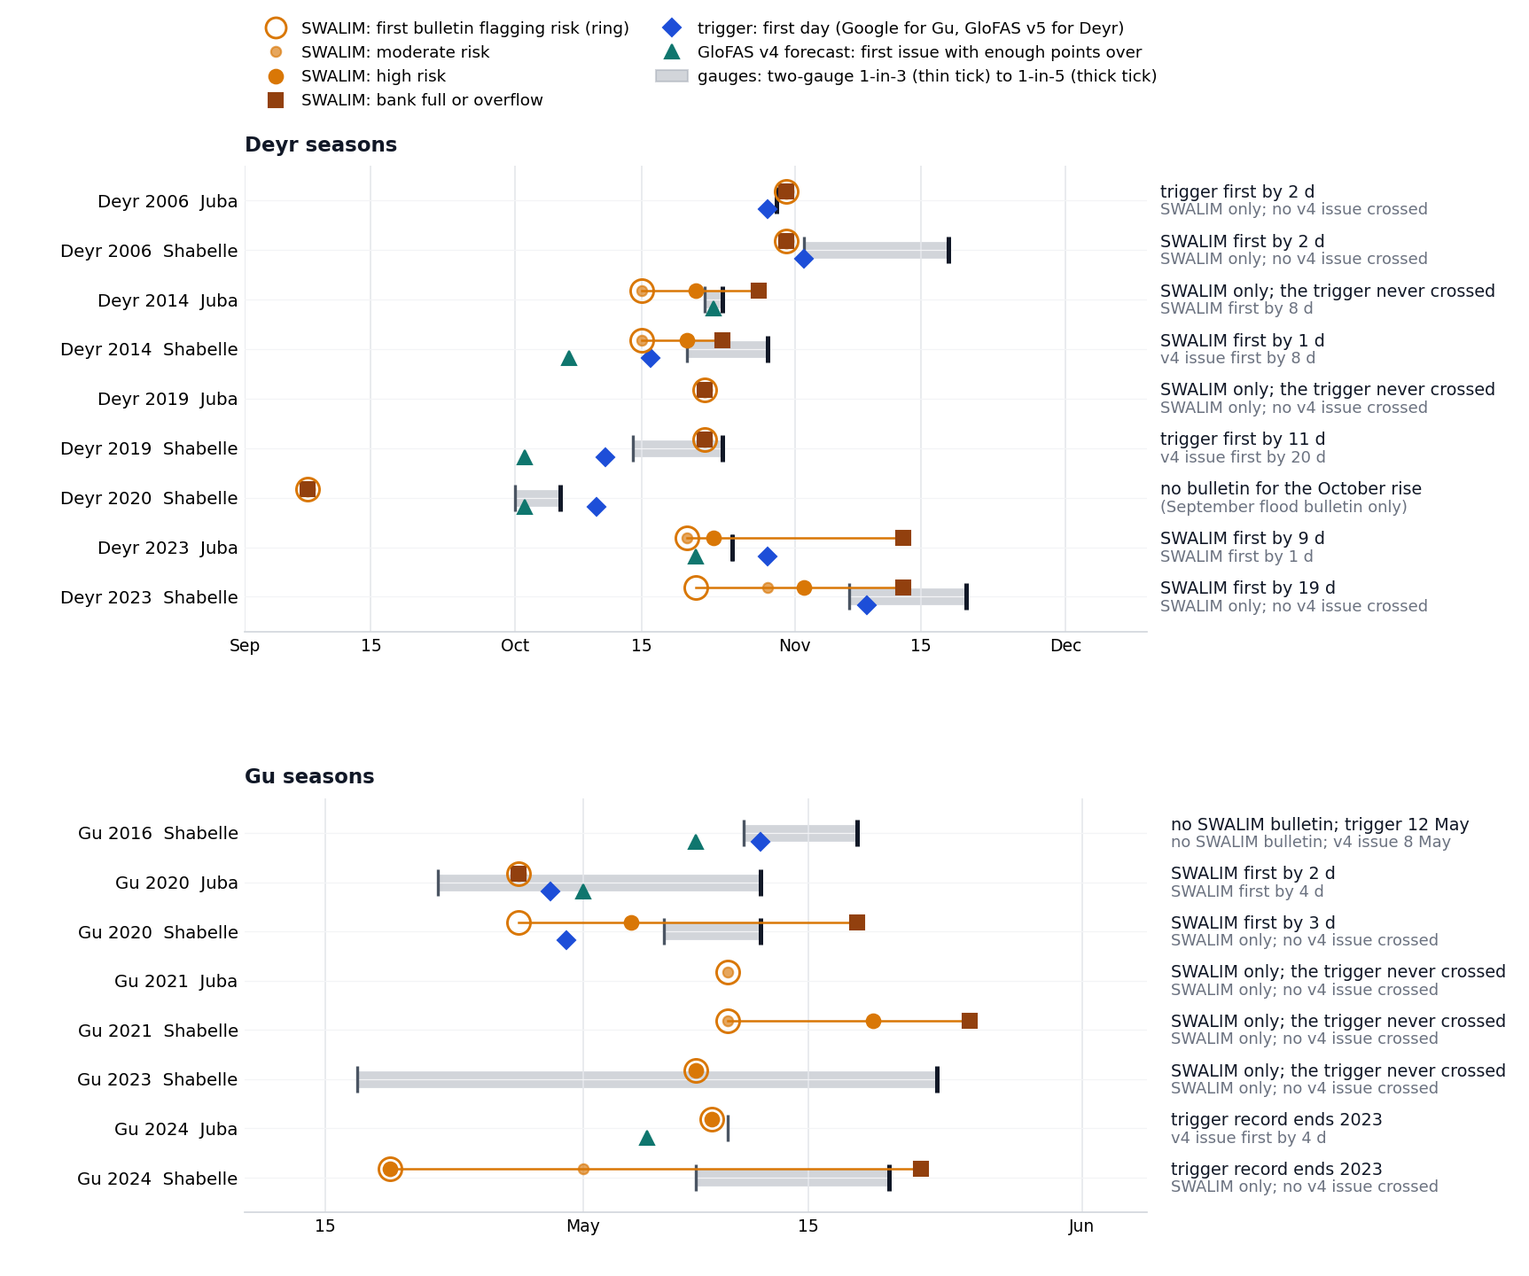
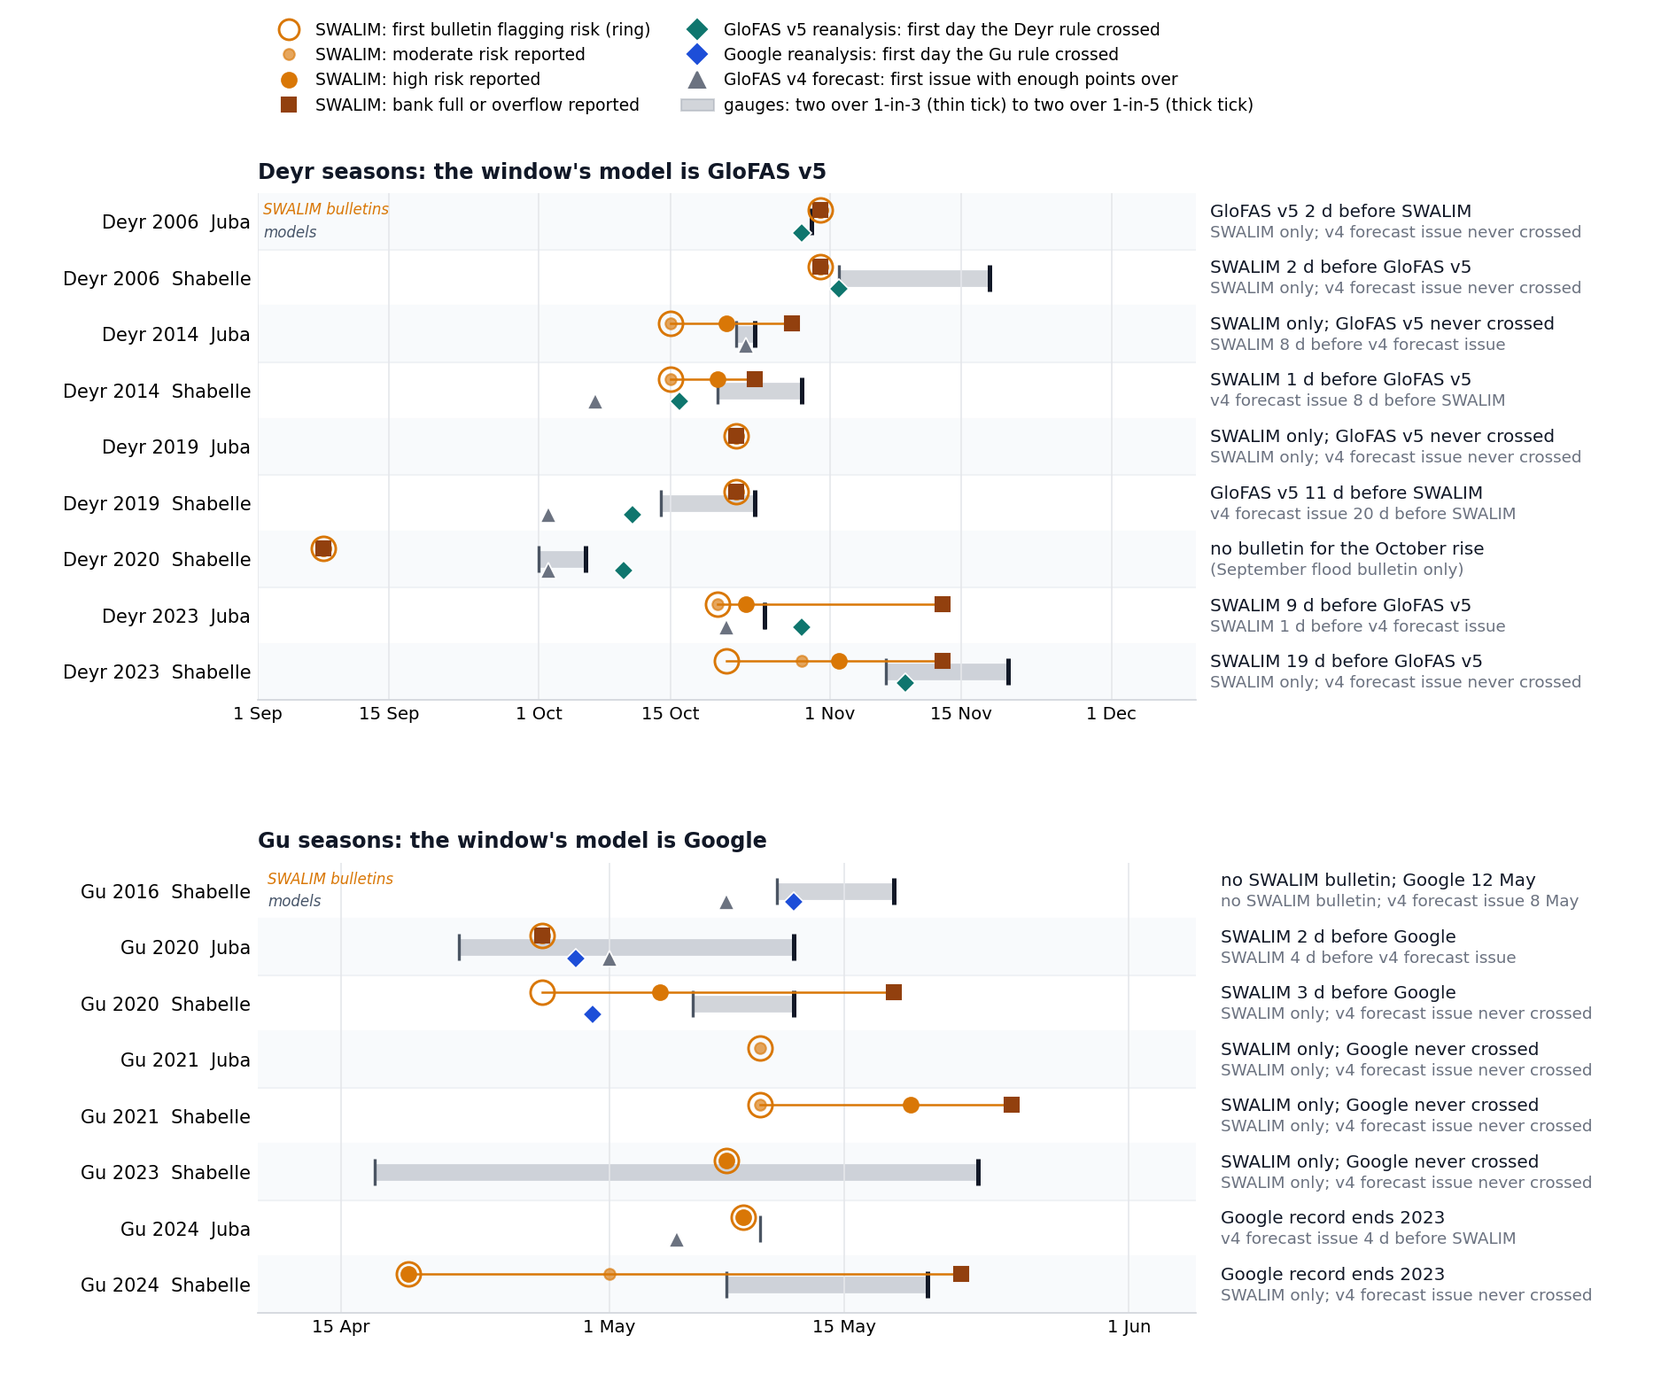
SWALIM timeline: name the model, clearer rows, no summary table
The diamond is now labelled by the window's model (GloFAS v5 in Deyr, Google in
Gu) in the legend, the panel titles and the verdict text, in the lead-time chart
too. Rows are separated and alternately shaded, the tracks are labelled, tick
labels carry the month, and the verdicts read as days between SWALIM and the
model. The who-was-first table under the chart is dropped.

diff --git a/pages/trigger-single-model/index.html b/pages/trigger-single-model/index.html
@@ -980,19 +980,14 @@ body.variant .carrynote { display:none; }
     <figure><img src="figs/k_swalim_timeline.png?v=202609071" alt="Timeline of SWALIM bulletins, trigger and GloFAS v4 forecast per flood season">
       <figcaption>Each row is one river-season. Upper track: SWALIM's first bulletin flagging
         risk (open circle) and the bulletins that first reported the moderate, high and bank
-        full steps. Lower track: the trigger's first day (diamond) and the GloFAS v4
-        forecast's first issue with enough points over (triangle). The verdict at right
-        counts days from SWALIM's first bulletin to the trigger, and in grey to the v4
+        full steps. Lower track: the first day the window's model crossed on its reanalysis
+        (diamond: GloFAS v5 in Deyr, Google in Gu) and the GloFAS v4 forecast's first issue
+        with enough points over (triangle). The text at right gives the days between
+        SWALIM's first bulletin and the model, and in grey between SWALIM and the v4
         issue. Gu 2024 is beyond the Google and v5 records, so only the v4 forecast is
         compared there. Deyr 2020's SWALIM bulletin concerned the September flood at Belet
         Weyne, before the Deyr window; Deyr 2006's SWALIM issues 2 to 7 are not on
         ReliefWeb, so its first flag may have been earlier than shown.</figcaption></figure>
-<div class="tablewrap">
-<table class="data" style="font-size:12.5px">
-<thead><tr><th>season</th><th>river</th><th>SWALIM first bulletin</th><th>trigger first day</th><th>who was first</th><th>GloFAS v4 forecast first issue</th><th>who was first</th></tr></thead>
-<tbody><tr><td>Deyr 2006</td><td>Juba</td><td>31 Oct</td><td>29 Oct</td><td>trigger first by 2 d</td><td>no issue crossed</td><td>SWALIM only; no v4 issue crossed</td></tr><tr><td>Deyr 2006</td><td>Shabelle</td><td>31 Oct</td><td>2 Nov</td><td>SWALIM first by 2 d</td><td>no issue crossed</td><td>SWALIM only; no v4 issue crossed</td></tr><tr><td>Deyr 2014</td><td>Juba</td><td>15 Oct</td><td>never crossed</td><td>SWALIM only; the trigger never crossed</td><td>23 Oct (for 25 Oct)</td><td>SWALIM first by 8 d</td></tr><tr><td>Deyr 2014</td><td>Shabelle</td><td>15 Oct</td><td>16 Oct</td><td>SWALIM first by 1 d</td><td>7 Oct (for 13 Oct)</td><td>v4 issue first by 8 d</td></tr><tr><td>Gu 2016</td><td>Shabelle</td><td>no bulletin</td><td>12 May</td><td>no SWALIM bulletin; trigger 12 May</td><td>8 May (for 10 May)</td><td>no SWALIM bulletin; v4 issue 8 May</td></tr><tr><td>Deyr 2019</td><td>Juba</td><td>22 Oct</td><td>never crossed</td><td>SWALIM only; the trigger never crossed</td><td>no issue crossed</td><td>SWALIM only; no v4 issue crossed</td></tr><tr><td>Deyr 2019</td><td>Shabelle</td><td>22 Oct</td><td>11 Oct</td><td>trigger first by 11 d</td><td>2 Oct (for 2 Oct)</td><td>v4 issue first by 20 d</td></tr><tr><td>Deyr 2020</td><td>Shabelle</td><td>8 Sep</td><td>10 Oct</td><td>no bulletin for the October rise</td><td>2 Oct (for 2 Oct)</td><td>(September flood bulletin only)</td></tr><tr><td>Gu 2020</td><td>Juba</td><td>27 Apr</td><td>29 Apr</td><td>SWALIM first by 2 d</td><td>1 May (for 6 May)</td><td>SWALIM first by 4 d</td></tr><tr><td>Gu 2020</td><td>Shabelle</td><td>27 Apr</td><td>30 Apr</td><td>SWALIM first by 3 d</td><td>no issue crossed</td><td>SWALIM only; no v4 issue crossed</td></tr><tr><td>Gu 2021</td><td>Juba</td><td>10 May</td><td>never crossed</td><td>SWALIM only; the trigger never crossed</td><td>no issue crossed</td><td>SWALIM only; no v4 issue crossed</td></tr><tr><td>Gu 2021</td><td>Shabelle</td><td>10 May</td><td>never crossed</td><td>SWALIM only; the trigger never crossed</td><td>no issue crossed</td><td>SWALIM only; no v4 issue crossed</td></tr><tr><td>Gu 2023</td><td>Shabelle</td><td>8 May</td><td>never crossed</td><td>SWALIM only; the trigger never crossed</td><td>no issue crossed</td><td>SWALIM only; no v4 issue crossed</td></tr><tr><td>Deyr 2023</td><td>Juba</td><td>20 Oct</td><td>29 Oct</td><td>SWALIM first by 9 d</td><td>21 Oct (for 21 Oct)</td><td>SWALIM first by 1 d</td></tr><tr><td>Deyr 2023</td><td>Shabelle</td><td>21 Oct</td><td>9 Nov</td><td>SWALIM first by 19 d</td><td>no issue crossed</td><td>SWALIM only; no v4 issue crossed</td></tr><tr><td>Gu 2024</td><td>Juba</td><td>9 May</td><td>record ends 2023</td><td>trigger record ends 2023</td><td>5 May (for 6 May)</td><td>v4 issue first by 4 d</td></tr><tr><td>Gu 2024</td><td>Shabelle</td><td>19 Apr</td><td>record ends 2023</td><td>trigger record ends 2023</td><td>no issue crossed</td><td>SWALIM only; no v4 issue crossed</td></tr></tbody>
-</table>
-</div>
     <p>The action window is 1 to 7 days before the flood and readiness 8 to 12. The chart
       below places each flag against the onset of the flood at the gauges, the day the
       two-gauge 1-in-3 level was first crossed, not the peak. The trigger's date is the day
@@ -1015,13 +1010,13 @@ body.variant .carrynote { display:none; }
       was inside the window in Deyr 2014, Deyr 2019 and Gu 2020 on the Shabelle (and a day
       before the 1-in-5 date in Deyr 2006 on the Juba) and on or after onset in six seasons,
       which is the gap a 1 to 7 day forecast has to close.</p>
-    <p>Where both flagged, SWALIM was first in six river-seasons and the trigger in two.
-      SWALIM's lead was 1 to 3 days in Deyr 2006, Deyr 2014 and Gu 2020, and 9 and 19 days
-      in Deyr 2023, when its 20 October alert asked for anticipatory action while the
-      trigger waited for the rivers themselves. The trigger led in Deyr 2019 on the
-      Shabelle by 11 days and in Deyr 2006 on the Juba by 2 days, where SWALIM's earlier
-      issues are missing. In four flood seasons SWALIM flagged and the trigger never
-      crossed: Deyr 2014 and Deyr 2019 on the Juba, Gu 2021 on both rivers and Gu 2023 on
+    <p>Where both flagged, SWALIM was first in six river-seasons and the window's model in
+      two. SWALIM's lead was 1 to 3 days in Deyr 2006, Deyr 2014 and Gu 2020, and 9 and 19
+      days in Deyr 2023, when its 20 October alert asked for anticipatory action while
+      GloFAS v5 waited for the rivers themselves. GloFAS v5 led in Deyr 2019 on the Shabelle
+      by 11 days and in Deyr 2006 on the Juba by 2 days, where SWALIM's earlier issues are
+      missing. In four flood seasons SWALIM flagged and the model never crossed: GloFAS v5 in
+      Deyr 2014 and Deyr 2019 on the Juba, Google in Gu 2021 on both rivers and Gu 2023 on
       the Shabelle. Gu 2016 has no SWALIM bulletin at all.</p>
     <p>The GloFAS v4 forecast, which is what would run live, is earlier than SWALIM where
       it crosses at all: by 8 days in Deyr 2014 and 20 days in Deyr 2019 on the Shabelle,

diff --git a/scripts/page_additions/swalim_timeline.py b/scripts/page_additions/swalim_timeline.py
@@ -1,8 +1,8 @@
-"""Timeline of who flagged first, SWALIM or the trigger, per river-season.
+"""Timeline of who flagged first, SWALIM or the window's model, per river-season.
 Dates are the dates the information was available: SWALIM bulletin issue dates
-(first flag, then the ladder steps), the trigger's first day on its reanalysis,
-the GloFAS v4 forecast's first issue with enough points over, and the gauges'
-two-gauge 1-in-3 / 1-in-5 crossings as the reference band."""
+(first flag, then the ladder steps), the first day the window's model crossed on its
+reanalysis (GloFAS v5 in Deyr, Google in Gu), the GloFAS v4 forecast's first issue
+with enough points over, and the gauges' two-gauge 1-in-3 / 1-in-5 crossings."""
 import json
 from datetime import date
 from pathlib import Path
@@ -26,7 +26,7 @@ def fmt(d):
     return d.strftime("%d %b").lstrip("0")
 
 
-# season, river, SWALIM first flag, moderate, high, bank full | trigger | v4 issue | gauge 1-in-3, 1-in-5
+# season, river, SWALIM first flag, moderate, high, bank full | model reanalysis crossing | v4 issue | gauge 1-in-3, 1-in-5
 ROWS = [
  ("Deyr 2006", "Juba",     "2006-10-31", None,         "2006-10-31", "2006-10-31", "2006-10-29", None,         None,         "2006-10-30"),
  ("Deyr 2006", "Shabelle", "2006-10-31", None,         "2006-10-31", "2006-10-31", "2006-11-02", None,         "2006-11-02", "2006-11-18"),
@@ -46,119 +46,126 @@ ROWS = [
  ("Gu 2024",   "Juba",     "2024-05-09", "2024-05-09", "2024-05-09", None,         "n/a",        "2024-05-05", "2024-05-10", None),
  ("Gu 2024",   "Shabelle", "2024-04-19", "2024-05-01", "2024-04-19", "2024-05-22", "n/a",        None,         "2024-05-08", "2024-05-20"),
 ]
-
-C_SW, C_SWD, C_TR, C_V4, C_G = "#d97706", "#92400e", "#1d4ed8", "#0f766e", "#9ca3af"
+MODEL = {"Deyr": "GloFAS v5", "Gu": "Google"}          # the window's model, on reanalysis
+C_SW, C_SWD, C_G, C_V5, C_V4, C_GAUGE = "#d97706", "#92400e", "#1d4ed8", "#0f766e", "#6b7280", "#9ca3af"
+C_MODEL = {"Deyr": C_V5, "Gu": C_G}
 
 
 def doy(d):
-    """day offset within a common non-leap year"""
     return date(2001, d.month, d.day).toordinal() - date(2001, 1, 1).toordinal()
 
 
-def verdict(sw, other, other_name, other_never):
-    """Who flagged first: SWALIM's first bulletin against another date."""
+def compare(sw, other, other_name):
+    """Who was first, SWALIM's first bulletin against another date."""
     if sw is None and other is None:
-        return "neither flagged"
+        return f"no SWALIM bulletin; {other_name} never crossed"
     if sw is None:
         return f"no SWALIM bulletin; {other_name} {fmt(other)}"
     if other is None:
-        return f"SWALIM only; {other_never}"
+        return f"SWALIM only; {other_name} never crossed"
     n = (other - sw).days
     if n == 0:
-        return "same day"
-    return f"SWALIM first by {n} d" if n > 0 else f"{other_name} first by {-n} d"
+        return f"same day as {other_name}"
+    return f"SWALIM {n} d before {other_name}" if n > 0 else f"{other_name} {-n} d before SWALIM"
 
 
 def verdicts(r):
-    season, river, first, mod, high, bank, trig, v4, g3, g5 = r
+    season, river, first, mod, high, bank, model_d, v4, g3, g5 = r
+    m = MODEL[season.split()[0]]
     f, v = D(first), D(v4)
     if season == "Deyr 2020":
-        # SWALIM's only bulletin concerned the September flood, before the Deyr window
-        return ("no bulletin for the October rise", "(September flood bulletin only)")
-    if trig == "n/a":
-        v1 = "trigger record ends 2023"
-    else:
-        v1 = verdict(f, D(trig), "trigger", "the trigger never crossed")
-    v2 = verdict(f, v, "v4 issue", "no v4 issue crossed")
+        return "no bulletin for the October rise", "(September flood bulletin only)"
+    v1 = f"{m} record ends 2023" if model_d == "n/a" else compare(f, D(model_d), m)
+    v2 = "no v4 issue crossed" if (f is None and v is None) else compare(f, v, "v4 forecast issue")
     return v1, v2
 
 
 def panel(ax, rows, x0, x1, title):
     ys = list(range(len(rows)))[::-1]
     for y, r in zip(ys, rows):
-        season, river, first, mod, high, bank, trig, v4, g3, g5 = r
+        season, river, first, mod, high, bank, model_d, v4, g3, g5 = r
         first, mod, high, bank, v4, g3, g5 = map(D, (first, mod, high, bank, v4, g3, g5))
-        trig = None if trig in (None, "n/a") else D(trig)
+        model_d = None if model_d in (None, "n/a") else D(model_d)
+        cm = C_MODEL[season.split()[0]]
+        if y % 2 == 0:
+            ax.axhspan(y - .5, y + .5, color="#f8fafc", zorder=0)
+        ax.axhline(y - .5, color="#eef1f4", lw=.8, zorder=0)
+        # gauges: band from 1-in-3 to 1-in-5
         if g3 or g5:
             a = doy(g3) if g3 else doy(g5)
             b = doy(g5) if g5 else doy(g3)
-            ax.plot([a, b], [y, y], color=C_G, lw=9, solid_capstyle="butt", alpha=.45, zorder=1)
+            ax.plot([a, b], [y, y], color=C_GAUGE, lw=9, solid_capstyle="butt", alpha=.45, zorder=1)
             if g3:
                 ax.plot([doy(g3)], [y], marker="|", color="#4b5563", ms=14, mew=1.6, zorder=2)
             if g5:
                 ax.plot([doy(g5)], [y], marker="|", color="#111827", ms=14, mew=2.4, zorder=2)
+        # upper track: SWALIM
         sw_pts = [p for p in (first, mod, high, bank) if p]
         if sw_pts:
-            ax.plot([doy(min(sw_pts)), doy(max(sw_pts))], [y + .18, y + .18], color=C_SW, lw=1.2, zorder=3)
-            ax.plot(doy(first), y + .18, marker="o", mfc="none", mec=C_SW, ms=12.5, mew=1.4, zorder=6)
+            ax.plot([doy(min(sw_pts)), doy(max(sw_pts))], [y + .2, y + .2], color=C_SW, lw=1.2, zorder=3)
+            ax.plot(doy(first), y + .2, marker="o", mfc="none", mec=C_SW, ms=13, mew=1.4, zorder=6)
             if mod:
-                ax.plot(doy(mod), y + .18, marker="o", color=C_SW, ms=5.5, zorder=5, alpha=.65)
+                ax.plot(doy(mod), y + .2, marker="o", color=C_SW, ms=6, zorder=5, alpha=.65)
             if high:
-                ax.plot(doy(high), y + .18, marker="o", color=C_SW, ms=7.5, zorder=5)
+                ax.plot(doy(high), y + .2, marker="o", color=C_SW, ms=8, zorder=5)
             if bank:
-                ax.plot(doy(bank), y + .18, marker="s", color=C_SWD, ms=7.5, zorder=5)
-        if trig:
-            ax.plot(doy(trig), y - .18, marker="D", color=C_TR, ms=7, zorder=5)
+                ax.plot(doy(bank), y + .2, marker="s", color=C_SWD, ms=8, zorder=5)
+        # lower track: the window's model and the v4 forecast issue
+        if model_d:
+            ax.plot(doy(model_d), y - .2, marker="D", color=cm, ms=7.5, mec="white", mew=.8, zorder=5)
         if v4:
-            ax.plot(doy(v4), y - .18, marker="^", color=C_V4, ms=8, zorder=5)
+            ax.plot(doy(v4), y - .2, marker="^", color=C_V4, ms=9, mec="white", mew=.8, zorder=5)
         v1, v2 = verdicts(r)
-        ax.text(x1 + 1.5, y + .16, v1, va="center", fontsize=9.2, color="#111827")
-        ax.text(x1 + 1.5, y - .2, v2, va="center", fontsize=8.6, color="#6b7280")
+        ax.text(x1 + 1.5, y + .17, v1, va="center", fontsize=9.6, color="#111827")
+        ax.text(x1 + 1.5, y - .2, v2, va="center", fontsize=8.8, color="#6b7280")
     ax.set_yticks(ys)
-    ax.set_yticklabels([f"{r[0]}  {r[1]}" for r in rows], fontsize=9.5)
-    ax.set_ylim(-.7, len(rows) - .3)
+    ax.set_yticklabels([f"{r[0]}  {r[1]}" for r in rows], fontsize=10)
+    ax.set_ylim(-.5, len(rows) - .5)
     ax.set_xlim(x0, x1)
     months = [(9, "Sep"), (10, "Oct"), (11, "Nov"), (12, "Dec"), (4, "Apr"), (5, "May"), (6, "Jun")]
-    ticks = [(doy(date(2001, m, 1)), n) for m, n in months if x0 <= doy(date(2001, m, 1)) <= x1]
-    ticks += [(doy(date(2001, m, 15)), "15") for m, _ in months if x0 <= doy(date(2001, m, 15)) <= x1]
+    ticks = [(doy(date(2001, m, 1)), f"1 {n}") for m, n in months if x0 <= doy(date(2001, m, 1)) <= x1]
+    ticks += [(doy(date(2001, m, 15)), f"15 {n}") for m, n in months if x0 <= doy(date(2001, m, 15)) <= x1]
     ticks.sort()
     ax.set_xticks([t for t, _ in ticks])
-    ax.set_xticklabels([n for _, n in ticks], fontsize=9)
+    ax.set_xticklabels([n for _, n in ticks], fontsize=9.5)
     ax.grid(axis="x", color="#e5e7eb", lw=.8)
-    ax.grid(axis="y", color="#f3f4f6", lw=.6)
     for s in ("top", "right", "left"):
         ax.spines[s].set_visible(False)
     ax.spines["bottom"].set_color("#d1d5db")
     ax.tick_params(length=0)
-    ax.set_title(title, loc="left", fontsize=11, fontweight="bold", color="#111827", pad=8)
+    ax.set_title(title, loc="left", fontsize=11.5, fontweight="bold", color="#111827", pad=8)
+    ytop = ys[0]
+    ax.text(x0 + .6, ytop + .2, "SWALIM bulletins", va="center", ha="left", fontsize=8, color=C_SW, style="italic")
+    ax.text(x0 + .6, ytop - .2, "models", va="center", ha="left", fontsize=8, color="#475569", style="italic")
 
 
 deyr = [r for r in ROWS if r[0].startswith("Deyr")]
 gu = [r for r in ROWS if r[0].startswith("Gu")]
-fig, (a1, a2) = plt.subplots(2, 1, figsize=(11.5, 9.6),
-                             gridspec_kw={"hspace": .38, "height_ratios": [len(deyr), len(gu)]})
-panel(a1, deyr, doy(date(2001, 9, 1)), doy(date(2001, 12, 10)), "Deyr seasons")
-panel(a2, gu, doy(date(2001, 4, 10)), doy(date(2001, 6, 5)), "Gu seasons")
-fig.subplots_adjust(left=.16, right=.75, top=.87, bottom=.05)
+fig, (a1, a2) = plt.subplots(2, 1, figsize=(12.5, 10.4),
+                             gridspec_kw={"hspace": .34, "height_ratios": [len(deyr), len(gu)]})
+panel(a1, deyr, doy(date(2001, 9, 1)), doy(date(2001, 12, 10)), "Deyr seasons: the window's model is GloFAS v5")
+panel(a2, gu, doy(date(2001, 4, 10)), doy(date(2001, 6, 5)), "Gu seasons: the window's model is Google")
+fig.subplots_adjust(left=.155, right=.72, top=.86, bottom=.05)
 handles = [
     Line2D([], [], marker="o", mfc="none", mec=C_SW, color="none", ms=11, mew=1.4, label="SWALIM: first bulletin flagging risk (ring)"),
-    Line2D([], [], marker="o", color=C_SW, ls="none", ms=5.5, alpha=.65, label="SWALIM: moderate risk"),
-    Line2D([], [], marker="o", color=C_SW, ls="none", ms=7.5, label="SWALIM: high risk"),
-    Line2D([], [], marker="s", color=C_SWD, ls="none", ms=7.5, label="SWALIM: bank full or overflow"),
-    Line2D([], [], marker="D", color=C_TR, ls="none", ms=7, label="trigger: first day (Google for Gu, GloFAS v5 for Deyr)"),
-    Line2D([], [], marker="^", color=C_V4, ls="none", ms=8, label="GloFAS v4 forecast: first issue with enough points over"),
-    Patch(color=C_G, alpha=.45, label="gauges: two-gauge 1-in-3 (thin tick) to 1-in-5 (thick tick)"),
+    Line2D([], [], marker="o", color=C_SW, ls="none", ms=6, alpha=.65, label="SWALIM: moderate risk reported"),
+    Line2D([], [], marker="o", color=C_SW, ls="none", ms=8, label="SWALIM: high risk reported"),
+    Line2D([], [], marker="s", color=C_SWD, ls="none", ms=8, label="SWALIM: bank full or overflow reported"),
+    Line2D([], [], marker="D", color=C_V5, ls="none", ms=7.5, label="GloFAS v5 reanalysis: first day the Deyr rule crossed"),
+    Line2D([], [], marker="D", color=C_G, ls="none", ms=7.5, label="Google reanalysis: first day the Gu rule crossed"),
+    Line2D([], [], marker="^", color=C_V4, ls="none", ms=9, label="GloFAS v4 forecast: first issue with enough points over"),
+    Patch(color=C_GAUGE, alpha=.45, label="gauges: two over 1-in-3 (thin tick) to two over 1-in-5 (thick tick)"),
 ]
-fig.legend(handles=handles, loc="upper left", bbox_to_anchor=(.16, .995), ncol=2, frameon=False,
-           fontsize=8.8, handletextpad=.6, columnspacing=1.6)
+fig.legend(handles=handles, loc="upper left", bbox_to_anchor=(.155, .995), ncol=2, frameon=False,
+           fontsize=9, handletextpad=.6, columnspacing=1.8)
 fig.savefig(OUT, dpi=150)
 print("wrote", OUT)
 
 out = []
 for r in ROWS:
     v1, v2 = verdicts(r)
-    out.append({"season": r[0], "river": r[1], "swalim_first": r[2], "trigger": r[6], "v4_issue": r[7],
-                "vs_trigger": v1, "vs_v4": v2})
+    out.append({"season": r[0], "river": r[1], "model": MODEL[r[0].split()[0]], "swalim_first": r[2], "trigger": r[6],
+                "v4_issue": r[7], "vs_trigger": v1, "vs_v4": v2})
 json.dump(out, open(S / "swalim_timeline.json", "w"), indent=1)
 for o in out:
-    print(f"{o['season']:10s}{o['river']:9s} | {o['vs_trigger']:34s} | {o['vs_v4']}")
+    print(f"{o['season']:10s}{o['river']:9s} | {o['vs_trigger']:40s} | {o['vs_v4']}")

diff --git a/scripts/page_additions/swalim_window.py b/scripts/page_additions/swalim_window.py
@@ -100,7 +100,8 @@ for y, r in zip(ys, ROWS):
                 ax.annotate(f"{abs(val)} d {'before' if val > 0 else 'after'}", (x, y), xytext=(0, -13),
                             textcoords="offset points", fontsize=7.3, color=c, ha="center")
     parts = [phrase("SWALIM", ls, "no bulletin"),
-             ("trigger record ends 2023" if trig_na else phrase("trigger", lt, "never crossed")),
+             ((f"{'Google' if season.startswith('Gu') else 'GloFAS v5'} record ends 2023") if trig_na
+              else phrase("Google" if season.startswith("Gu") else "GloFAS v5", lt, "never crossed")),
              phrase("v4 issue", lv, "never crossed")]
     ax.text(XMAX + .6, y, "  |  ".join(parts), va="center", fontsize=8.6, color="#111827")
     out.append({"season": season, "river": river, "onset": onset.isoformat(), "severe": g5.isoformat() if g5 else None,
@@ -120,7 +121,7 @@ ax.spines["bottom"].set_color("#d1d5db")
 ax.tick_params(length=0)
 handles = [
     Line2D([], [], marker="o", color=C_SW, ls="none", ms=8.5, label="SWALIM: first bulletin flagging risk"),
-    Line2D([], [], marker="D", color=C_TR, ls="none", ms=7, label="trigger: first day (Google for Gu, GloFAS v5 for Deyr)"),
+    Line2D([], [], marker="D", color=C_TR, ls="none", ms=7, label="window's model on reanalysis, first day the rule crossed: GloFAS v5 (Deyr), Google (Gu)"),
     Line2D([], [], marker="^", color=C_V4, ls="none", ms=8.5, label="GloFAS v4 forecast: first issue with enough points over"),
     Line2D([], [], marker="|", color="#111827", ls="none", ms=13, mew=2.2, label="gauges cross 1-in-5"),
 ]
